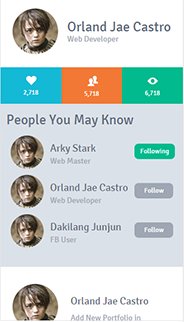
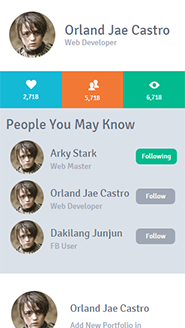
Fixing Images Slide

diff --git a/public/css/style.css b/public/css/style.css
@@ -207,9 +207,9 @@
   }
   .phone_slide{
   	width: 184px;
-  	height: 322px;
+  	height: 328px;
   	position: relative;
-  	margin:-389px 0px 73px 0px;
+  	margin:-389px 0px 73px 2px;
   	background-image:url('images/dashboard_slide.png');
   }
 
